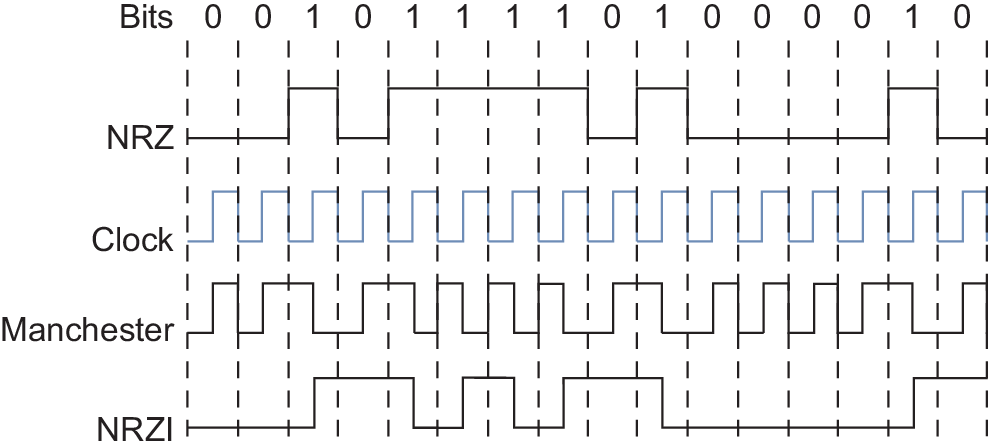
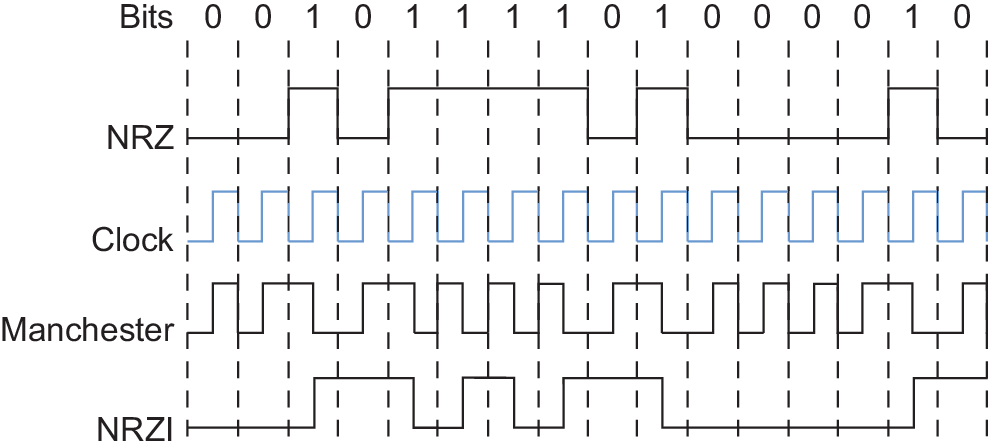
fix color

diff --git a/technology/link.rst b/technology/link.rst
@@ -490,7 +490,7 @@ put an XOR gate in front of bit :math:`n` if there is a term
 front of positions 0 and 2 for the generator :math:`x^3 + x^2 + x^0`.
 
 .. _fig-crc-hard:
-.. figure:: technology/figures/f02-16-9780123850591.png
+.. figure:: technology/figures/f02-16.png
    :width: 350px
    :align: center
 
